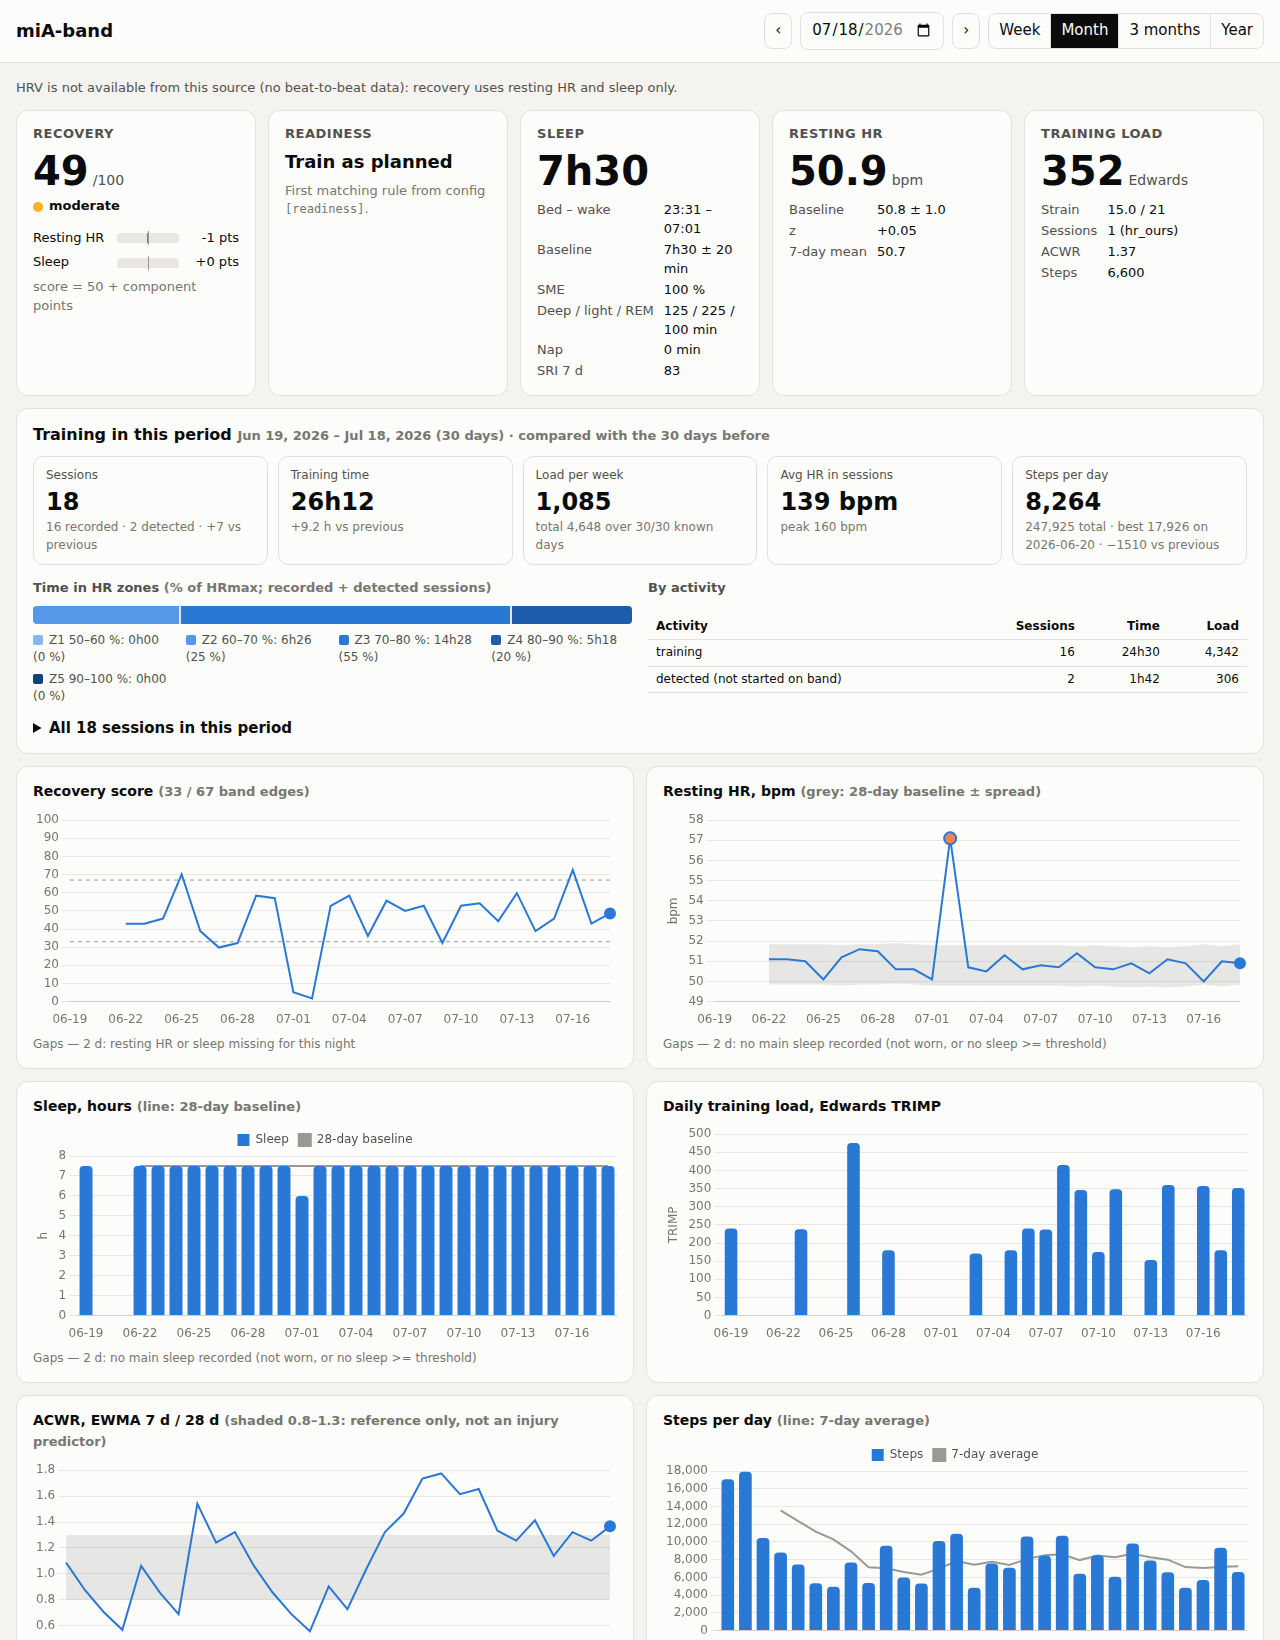
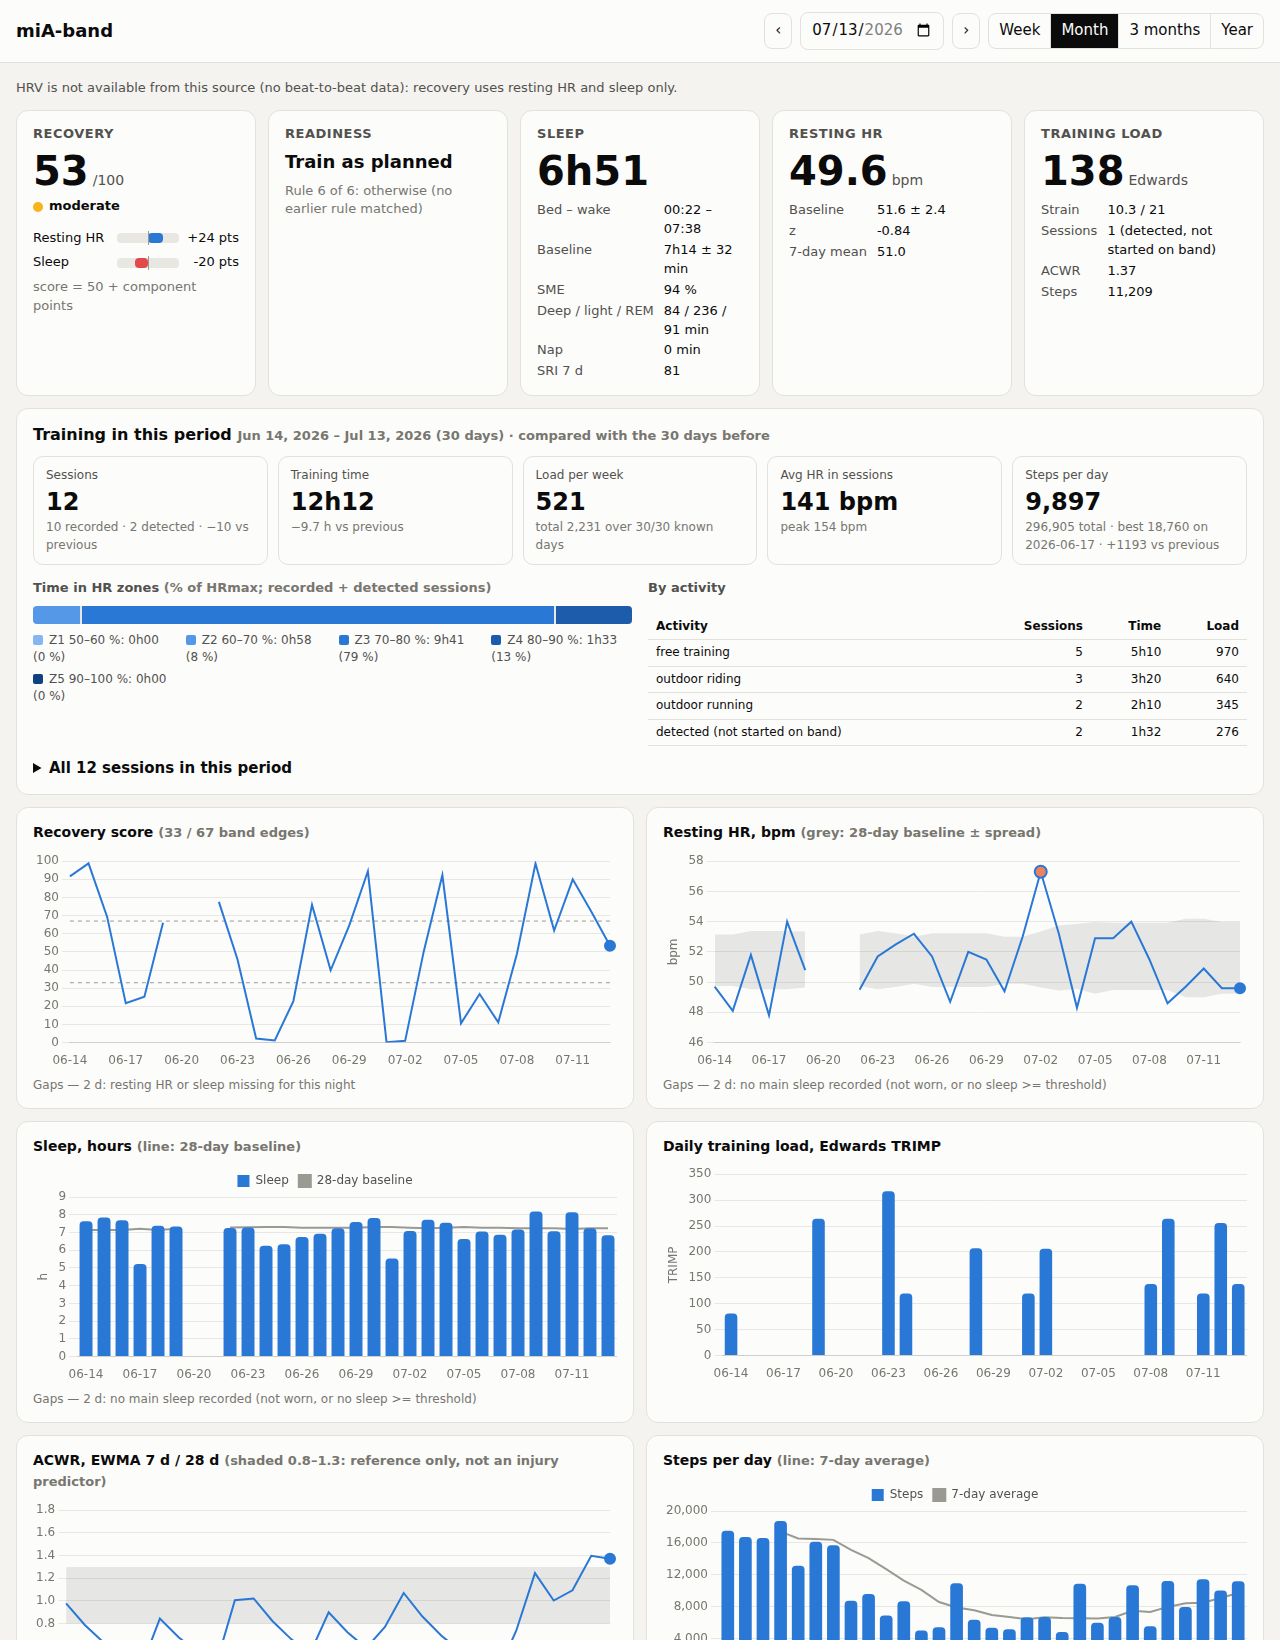
Polish: realistic demo nights, readable UI labels, NumPy deprecation
- synthetic generator: optional night-to-night variation (sleep duration,
  awake bouts, stage lengths, resting-HR nadir) and per-workout sport;
  defaults stay exact for the tests; demo and README screenshot use it
- dashboard: name the readiness rule that fired (new /api/readiness-rules),
  plain labels instead of internal method names, real sport names
- CLI: readiness rule numbers are 1-based like the dashboard
- pipeline: add np.timedelta64 to datetime64 instead of bare integers

diff --git a/miaband/web/static/app.js b/miaband/web/static/app.js
@@ -18,6 +18,26 @@ async function api(path) {
   return r.json();
 }
 
+// ---------------------------------------------------------------- labels
+const METHOD_LABELS = { hr_ours: "zones from 1-min HR", device_zones: "band's zones", detected: "detected, not started on band",
+                        low_resolution: "no HR detail" };
+const methodLabel = (m) => METHOD_LABELS[m] || m;
+const FIELD_LABELS = { "recovery.status": "recovery", "recovery.score": "recovery", "recovery.band": "recovery band",
+  "rhr.z": "resting-HR z", "rhr.flag": "resting HR flagged", "sleep.z": "sleep z", "sleep.flag": "short night",
+  "sleep.tst_min": "sleep minutes", "acwr.value": "ACWR", "acwr.status": "ACWR", "load.yesterday": "yesterday's load" };
+
+function describeRule(i) {
+  const rules = state.rules || [];
+  const r = rules[i];
+  if (!r) return `Rule ${i + 1}`;
+  const terms = r.when.map((t) => {
+    if (t.op === "==" && t.value === true) return FIELD_LABELS[t.field] || t.field;
+    if (t.field === "recovery.status" && t.op === "!=" && t.value === "ok") return "no recovery score";
+    return `${FIELD_LABELS[t.field] || t.field} ${t.op} ${t.value}`;
+  });
+  return `Rule ${i + 1} of ${rules.length}: ` + (terms.length ? `when ${terms.join(" and ")}` : "otherwise (no earlier rule matched)");
+}
+
 // ---------------------------------------------------------------- day cards
 function metric(m, name) { return m[name] || { value: null, status: "missing", reason: null }; }
 function okVal(m, name) { const x = metric(m, name); return x.status === "ok" ? x.value : null; }
@@ -58,6 +78,7 @@ function renderDay(d) {
   // Readiness
   const rd = metric(m, "readiness.rule");
   $("readiness").textContent = rd.reason || "–";
+  $("readiness-rule").textContent = rd.value == null ? "" : describeRule(rd.value);
   // Sleep
   const tst = metric(m, "sleep.tst_min");
   $("sleep-tst").textContent = tst.status === "ok" ? fmtHM(tst.value) : "–";
@@ -88,7 +109,7 @@ function renderDay(d) {
   const n = metric(m, "strain.n_workouts");
   kv($("load-kv"), [
     ["Strain", load.status === "ok" ? `${fmt(okVal(m, "strain.strain"), 1)} / 21` : "–"],
-    ["Sessions", `${fmt(n.value)}${n.reason ? " (" + n.reason + ")" : ""}`],
+    ["Sessions", `${fmt(n.value)}${n.reason ? " (" + n.reason.split(",").map(methodLabel).join(", ") + ")" : ""}`],
     ["ACWR", acwr.status === "ok" ? fmt(acwr.value, 2) : (acwr.reason || acwr.status)],
     ["Steps", metric(m, "activity.steps").status === "ok" ? fmtInt(metric(m, "activity.steps").value) : "unknown"],
     ...(load.status !== "ok" || load.reason ? [["Note", load.reason || ""]] : []),
@@ -293,7 +314,7 @@ function renderPeriod(p) {
     p.sessions.map((s) => `<tr><td>${s.date}</td><td class="text">${esc(SPORT(s.sport))}</td><td>${fmtHM(s.duration_min)}</td>` +
       `<td>${fmt(s.avg_hr)}</td><td>${fmt(s.peak_hr)}</td><td>${s.load == null ? "unknown" : fmtInt(s.load)}</td>` +
       ["z1_min", "z2_min", "z3_min", "z4_min", "z5_min"].map((k) => `<td>${s[k] == null ? "–" : fmt(s[k])}</td>`).join("") +
-      `<td class="text">${esc({ hr_ours: "our zones", device_zones: "band zones", low_resolution: "no HR detail", detected: "detected" }[s.method] || s.method)}</td></tr>`).join("");
+      `<td class="text">${esc(methodLabel(s.method))}</td></tr>`).join("");
 }
 
 // ---------------------------------------------------------------- wiring
@@ -319,6 +340,7 @@ function shift(delta) {
 async function init() {
   try {
     state.range = await api("/api/range");
+    state.rules = await api("/api/readiness-rules").catch(() => []);
   } catch (e) {
     $("notice").textContent = String(e.message || e);
     return;

diff --git a/miaband/web/static/index.html b/miaband/web/static/index.html
@@ -36,7 +36,7 @@
     <article class="card" id="card-readiness">
       <h2>Readiness</h2>
       <p id="readiness" class="big-text">–</p>
-      <p class="muted">First matching rule from config <code>[readiness]</code>.</p>
+      <p class="muted" id="readiness-rule"></p>
     </article>
     <article class="card">
       <h2>Sleep</h2>

diff --git a/miaband/sources/synthetic.py b/miaband/sources/synthetic.py
@@ -39,6 +39,11 @@ class Scenario:
     bedtime: dt.time = dt.time(23, 30)
     sleep_hours: float = 7.5
     bedtime_jitter_min: float = 0.0
+    # night-to-night realism (0 = exact, deterministic nights for tests)
+    sleep_hours_sd: float = 0.0                             # SD of sleep duration, hours
+    awake_max_min: float = 0.0                              # random mid-night awake bout, 0..max minutes
+    stage_jitter_min: int = 0                               # each stage block +- up to this many minutes
+    nadir_sd: float = 0.0                                   # night-to-night SD of the sleeping-HR nadir, bpm
     with_stages: bool = True
     # planted events, keyed by wake date
     short_nights: dict = field(default_factory=dict)        # date -> hours
@@ -47,7 +52,7 @@ class Scenario:
     rhr_delta: dict = field(default_factory=dict)           # date -> bpm added to the nadir
     missing_nights: set = field(default_factory=set)        # no sleep record, band off at night
     naps: dict = field(default_factory=dict)                # date -> (local time, minutes)
-    workouts: dict = field(default_factory=dict)            # date -> (local time, minutes, bpm)
+    workouts: dict = field(default_factory=dict)            # date -> (local time, minutes, bpm[, sport])
     non_wear: list = field(default_factory=list)            # [(local datetime, local datetime)]
     tz_by_date: dict = field(default_factory=dict)          # date -> IANA zone (travel)
     daily_steps: int = 8000                                 # walked from 09:00 at 100 steps/min
@@ -62,11 +67,13 @@ def _offset_min(ts: int, tz: ZoneInfo) -> int:
     return int(dt.datetime.fromtimestamp(ts, tz).utcoffset().total_seconds() // 60)
 
 
-def _stage_plan(start: int, end: int, awake_min: float) -> list[tuple[int, int, str]]:
+def _stage_plan(start: int, end: int, awake_min: float, rng=None, jitter: int = 0) -> list[tuple[int, int, str]]:
     cycle = [("light", 45), ("deep", 25), ("rem", 20)]
     segs, t, k = [], start, 0
     while t < end:
         stage, m = cycle[k % 3]
+        if jitter and rng is not None:
+            m = max(5, m + int(rng.integers(-jitter, jitter + 1)))
         segs.append((t, min(t + m * 60, end), stage))
         t += m * 60
         k += 1
@@ -96,12 +103,18 @@ def generate(sc: Scenario) -> tuple[CanonicalBatch, pd.DataFrame]:
         wake = sc.first_wake + dt.timedelta(days=i)
         tz = ZoneInfo(sc.tz_by_date.get(wake, sc.tz))
         hours = sc.short_nights.get(wake, sc.sleep_hours)
+        if sc.sleep_hours_sd and wake not in sc.short_nights:
+            hours = round(max(4.0, hours + rng.normal(0, sc.sleep_hours_sd)) * 60) / 60
         shift = sc.bedtime_shift_min.get(wake, 0) + rng.normal(0, sc.bedtime_jitter_min)
         bed_local = dt.datetime.combine(wake - dt.timedelta(days=1), sc.bedtime) + dt.timedelta(minutes=shift)
         start = _utc(bed_local, tz)
         end = start + int(hours * 3600)
         awake = sc.awake_bouts.get(wake, 0)
+        if sc.awake_max_min and wake not in sc.awake_bouts:
+            awake = int(rng.integers(0, int(sc.awake_max_min) + 1))
         nadir = sc.nadir_hr + sc.rhr_delta.get(wake, 0)
+        if sc.nadir_sd:
+            nadir += float(rng.normal(0, sc.nadir_sd))
         missing = wake in sc.missing_nights
         truth.append(dict(date=np.datetime64(wake), has_night=not missing,
                           tst_min=np.nan if missing else hours * 60 - awake,
@@ -115,7 +128,7 @@ def generate(sc: Scenario) -> tuple[CanonicalBatch, pd.DataFrame]:
         sessions.append(dict(start_ts=start, end_ts=end, is_nap=np.nan, tz_offset_min=off,
                              dev_duration_min=hours * 60 - awake, dev_awake_min=float(awake)))
         if sc.with_stages:
-            for s, e, st in _stage_plan(start, end, awake):
+            for s, e, st in _stage_plan(start, end, awake, rng, sc.stage_jitter_min):
                 segments.append(dict(session_start_ts=start, start_ts=s, end_ts=e, stage=st))
         sleep_spans.append((start, end, nadir))
 
@@ -128,10 +141,11 @@ def generate(sc: Scenario) -> tuple[CanonicalBatch, pd.DataFrame]:
             if sc.with_stages:
                 segments.append(dict(session_start_ts=ns, start_ts=ns, end_ts=ns + minutes * 60, stage="light"))
         if wake in sc.workouts:
-            t, minutes, bpm = sc.workouts[wake]
+            t, minutes, bpm, *rest = sc.workouts[wake]
+            sport = rest[0] if rest else "free_training"
             ws = _utc(dt.datetime.combine(wake, t), tz)
             zone = int(np.searchsorted((0.5, 0.6, 0.7, 0.8, 0.9), bpm / sc.hr_max, side="right"))
-            workouts.append(dict(start_ts=ws, end_ts=ws + minutes * 60, sport="training",
+            workouts.append(dict(start_ts=ws, end_ts=ws + minutes * 60, sport=sport,
                                  tz_offset_min=_offset_min(ws, tz), avg_hr=float(bpm), max_hr=float(bpm),
                                  min_hr=float(bpm), dev_train_load=np.nan,
                                  **{f"zone{z}_s": float(minutes * 60 if z == zone else 0) for z in range(1, 6)}))

diff --git a/miaband/cli.py b/miaband/cli.py
@@ -103,7 +103,7 @@ def _summary(date, r) -> None:
         print(f"Recovery: {st or 'n/a'} — {r.get('recovery.score:reason') or 'no data'}")
     rule = r.get("readiness.rule")
     if rule is not None and not pd.isna(rule):
-        print(f"Readiness: {r.get('readiness.rule:reason')}   [rule {int(rule)}]")
+        print(f"Readiness: {r.get('readiness.rule:reason')}   [rule {int(rule) + 1}]")
     acwr = (f"{r['acwr.ewma']:.2f}" if r.get("acwr.ewma:status") == "ok"
             else f"n/a ({r.get('acwr.ewma:reason')})")
     print(f"Load today: {_num(r.get('strain.load'))} (strain {_num(r.get('strain.strain'), '{:.1f}')}), ACWR {acwr}")
@@ -308,7 +308,7 @@ def cmd_serve(cfg: Config, args) -> int:
         print('the dashboard needs the web extra: pip install -e ".[web]"', file=sys.stderr)
         return 2
     print(f"miA-band dashboard on http://{args.host}:{args.port}  (store: {cfg.store}; Ctrl+C to stop)")
-    uvicorn.run(create_app(cfg.store), host=args.host, port=args.port, log_level="warning")
+    uvicorn.run(create_app(cfg.store, cfg.readiness.rules), host=args.host, port=args.port, log_level="warning")
     return 0
 
 
@@ -316,6 +316,7 @@ def cmd_demo(cfg: Config, args) -> int:
     from .sources.synthetic import Scenario, generate
     today = dt.date.today()
     sc = Scenario(first_wake=today - dt.timedelta(days=41), nights=42, bedtime_jitter_min=25, noise_sd=1.5,
+                  sleep_hours_sd=0.5, awake_max_min=30, stage_jitter_min=8, nadir_sd=1.5,
                   short_nights={today - dt.timedelta(days=3): 5.0},
                   rhr_delta={today - dt.timedelta(days=1): 7},
                   missing_nights={today - dt.timedelta(days=5)},

diff --git a/miaband/pipeline.py b/miaband/pipeline.py
@@ -77,7 +77,7 @@ def compute_daily(tables: dict[str, pd.DataFrame], cfg: Config) -> tuple[pd.Data
         firsts.append(hd.iloc[0].normalize()); lasts.append(hd.iloc[1].normalize())
     if not firsts:
         return pd.DataFrame(columns=["date"]), pd.DataFrame()
-    days = np.arange(np.datetime64(min(firsts), "D"), np.datetime64(max(lasts), "D") + 1, dtype="datetime64[D]")
+    days = np.arange(np.datetime64(min(firsts), "D"), np.datetime64(max(lasts), "D") + np.timedelta64(1, "D"), dtype="datetime64[D]")
     rest = (nightly.set_index("date")["rhr_base_center"] if "rhr_base_center" in nightly
             else pd.Series(dtype=float)).reindex(pd.DatetimeIndex(days)).ffill().fillna(cfg.person.resting_hr)
     strain, workouts = daily_strain(days, w, ctx["hr"], ctx["worn"], ctx["timeline"], rest, cfg)
@@ -100,7 +100,8 @@ def detector_recall(tables: dict[str, pd.DataFrame], cfg: Config, since: str | N
     if w.empty or hr.empty:
         return {"n": 0}
     days = np.arange(np.datetime64(pd.to_datetime(w["start_ts"].min(), unit="s"), "D"),
-                     np.datetime64(pd.to_datetime(w["start_ts"].max(), unit="s"), "D") + 2, dtype="datetime64[D]")
+                     np.datetime64(pd.to_datetime(w["start_ts"].max(), unit="s"), "D") + np.timedelta64(2, "D"),
+                     dtype="datetime64[D]")
     hrmax = hrmax_by_date(days, w.assign(max_hr=sustained_peaks(w, hr, cfg)), cfg)
     hrmax["date"] = pd.to_datetime(hrmax["date"])
     loads = workout_loads(w, hr, hrmax, ctx["timeline"], cfg)

diff --git a/miaband/web/app.py b/miaband/web/app.py
@@ -7,6 +7,7 @@ status and reason, so the page can show *why* something is missing instead of a 
   GET /api/day/{date}            all metrics for one day: {metric: {value, status, reason}}
   GET /api/series?end=&days=     wide arrays for charts over a window ending at `end`
   GET /api/period?end=&days=     training + steps summary of that window vs the previous one
+  GET /api/readiness-rules       the configured readiness rules, to name the one that fired
 """
 from __future__ import annotations
 
@@ -28,8 +29,12 @@ SERIES = [
 ZONES = ["z1_min", "z2_min", "z3_min", "z4_min", "z5_min"]
 
 
-def create_app(store_path: Path | str) -> FastAPI:
+def create_app(store_path: Path | str, rules: tuple | list | None = None) -> FastAPI:
+    """`rules`: the readiness rules in force (config), so the page can say which one fired."""
     store_path = Path(store_path)
+    if rules is None:
+        from ..config import DEFAULT_RULES
+        rules = DEFAULT_RULES
     app = FastAPI(title="miA-band", docs_url=None, redoc_url=None)
 
     def con() -> sqlite3.Connection:
@@ -38,6 +43,10 @@ def create_app(store_path: Path | str) -> FastAPI:
         c = sqlite3.connect(f"file:{store_path}?mode=ro", uri=True)
         c.row_factory = sqlite3.Row
         return c
+
+    @app.get("/api/readiness-rules")
+    def readiness_rules():
+        return [{"when": list(r.get("when", [])), "say": r.get("say", "")} for r in rules]
 
     @app.get("/api/range")
     def range_():

diff --git a/tests/test_web.py b/tests/test_web.py
@@ -55,7 +55,12 @@ def test_period_summary_and_steps(client):
     assert cur["sessions"] == 1 and cur["recorded"] == 1 and cur["load"] == 270
     assert cur["zones_min"][2] == pytest.approx(90)                  # 150 bpm = zone 3 for 90 min
     assert cur["steps"]["per_day"] == pytest.approx(8000) and cur["steps"]["known_days"] == 7
-    assert p["sessions"][0]["sport"] == "training" and p["sessions"][0]["duration_min"] == 90
+    assert p["sessions"][0]["sport"] == "free_training" and p["sessions"][0]["duration_min"] == 90
     assert p["previous"]["sessions"] == 0                             # 2026-06-12 .. 06-18
     gap = client.get("/api/day/2026-06-30").json()["metrics"]["activity.steps"]
     assert gap["status"] == "ok" and gap["value"] == 8000            # band worn during the day
+
+
+def test_readiness_rules_are_served(client):
+    rules = client.get("/api/readiness-rules").json()
+    assert rules[0]["when"][0]["field"] == "recovery.status" and rules[-1]["when"] == []
